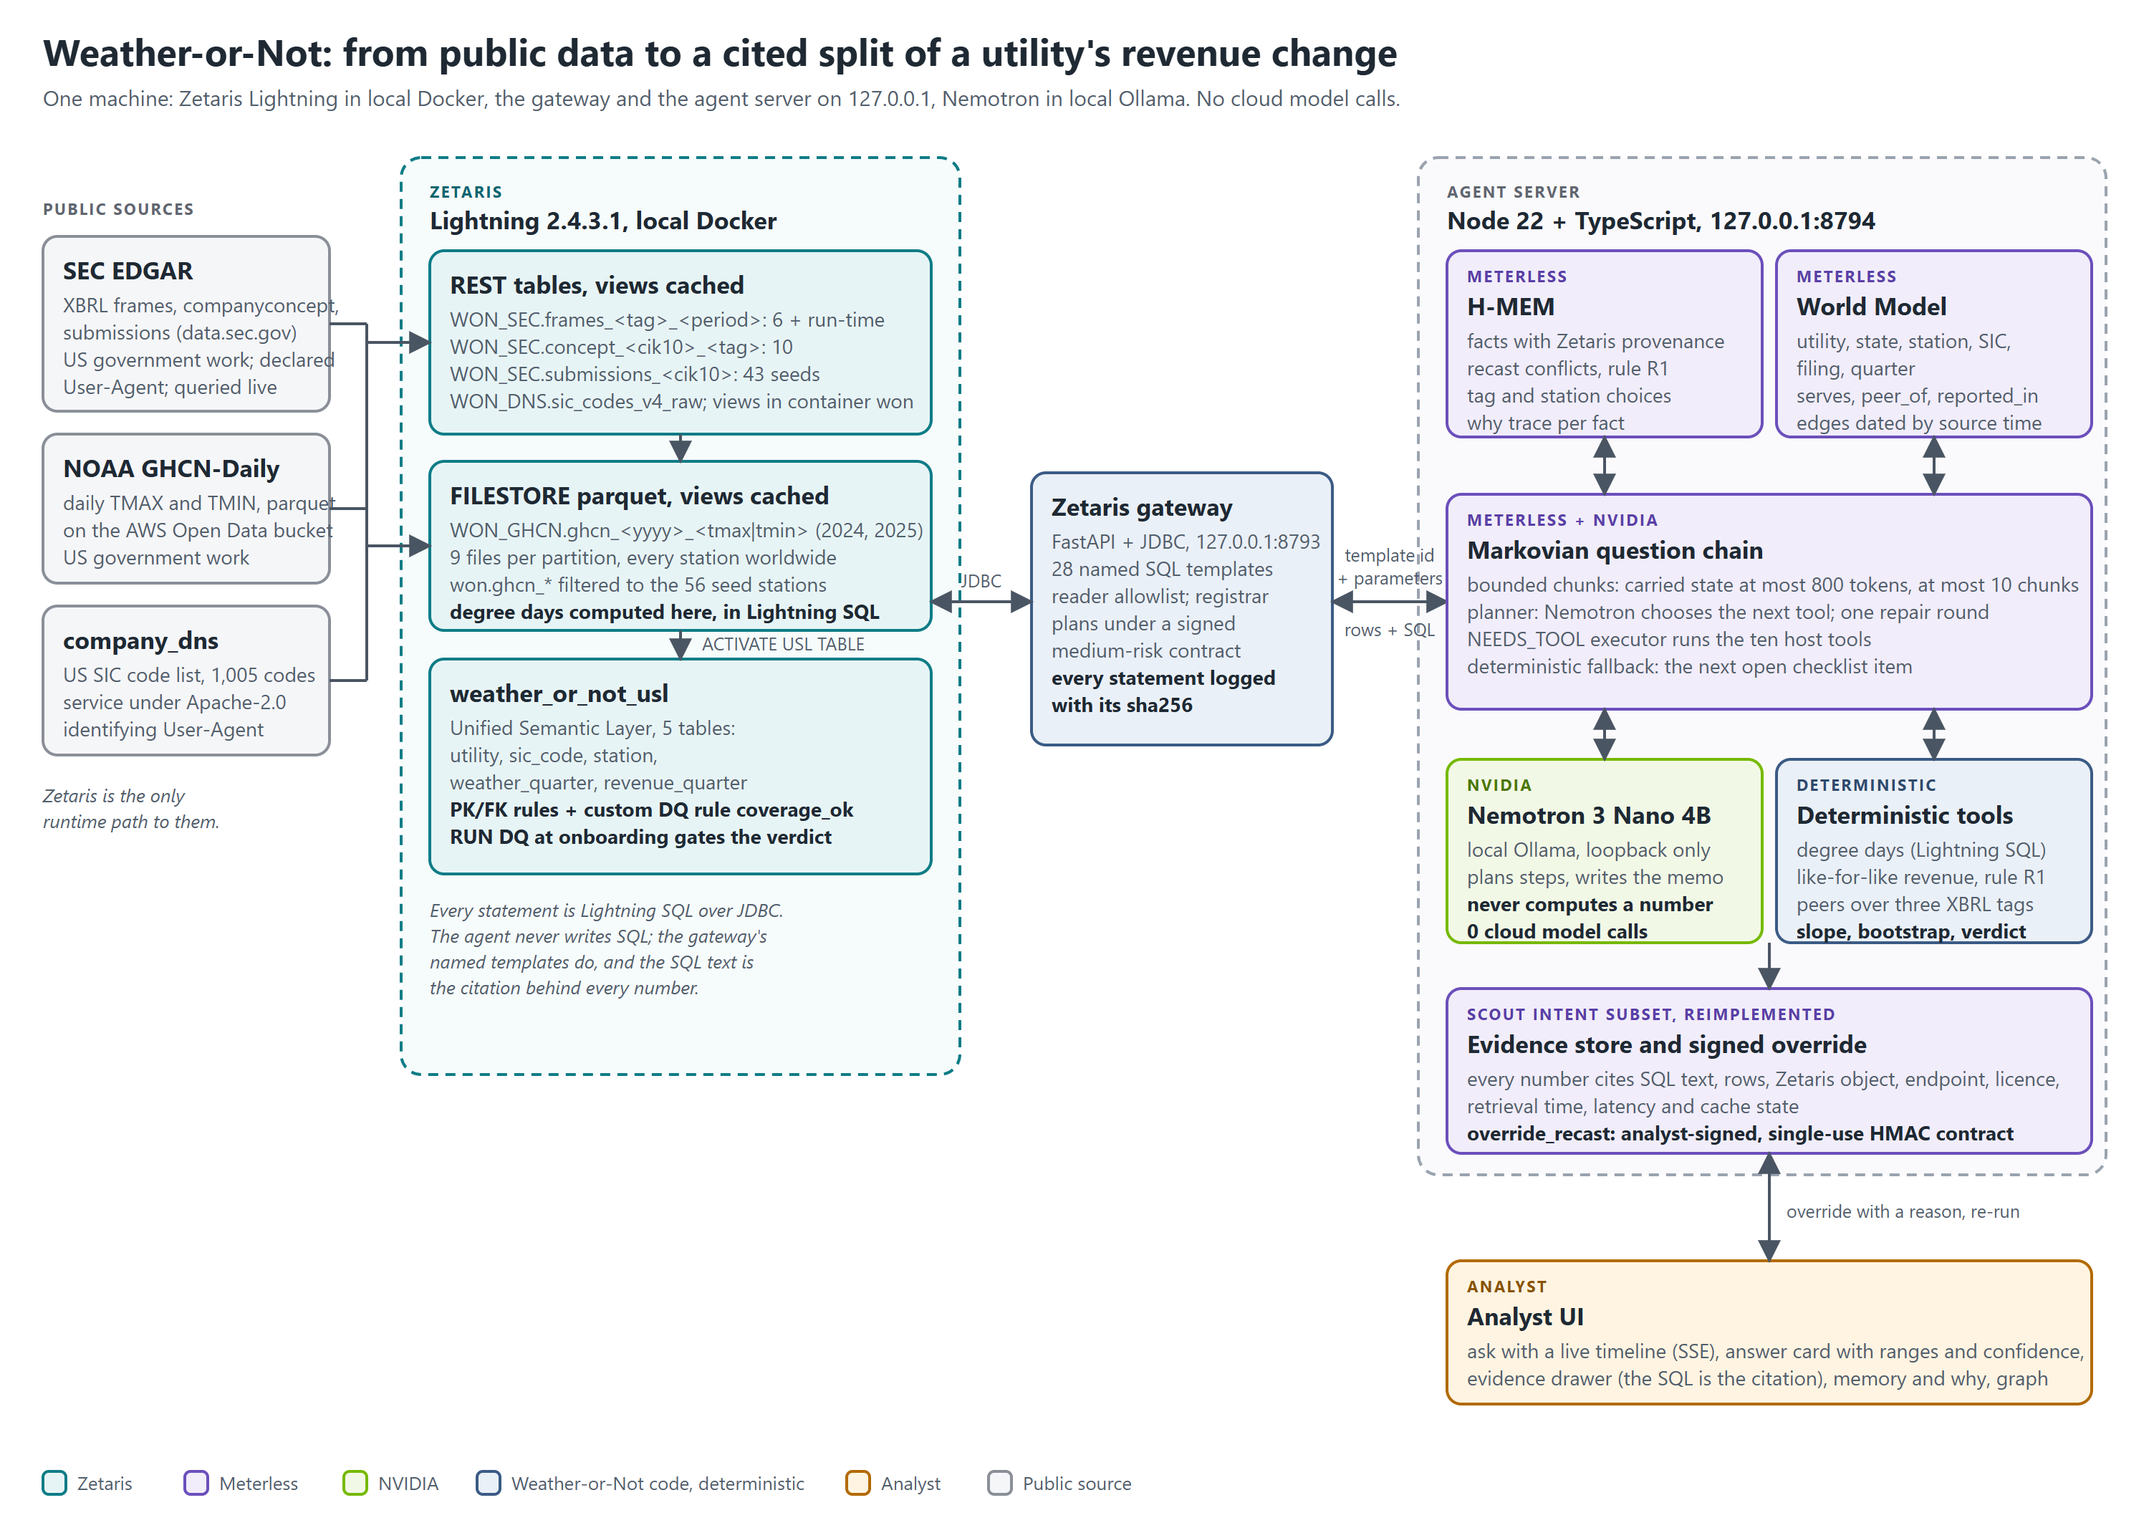
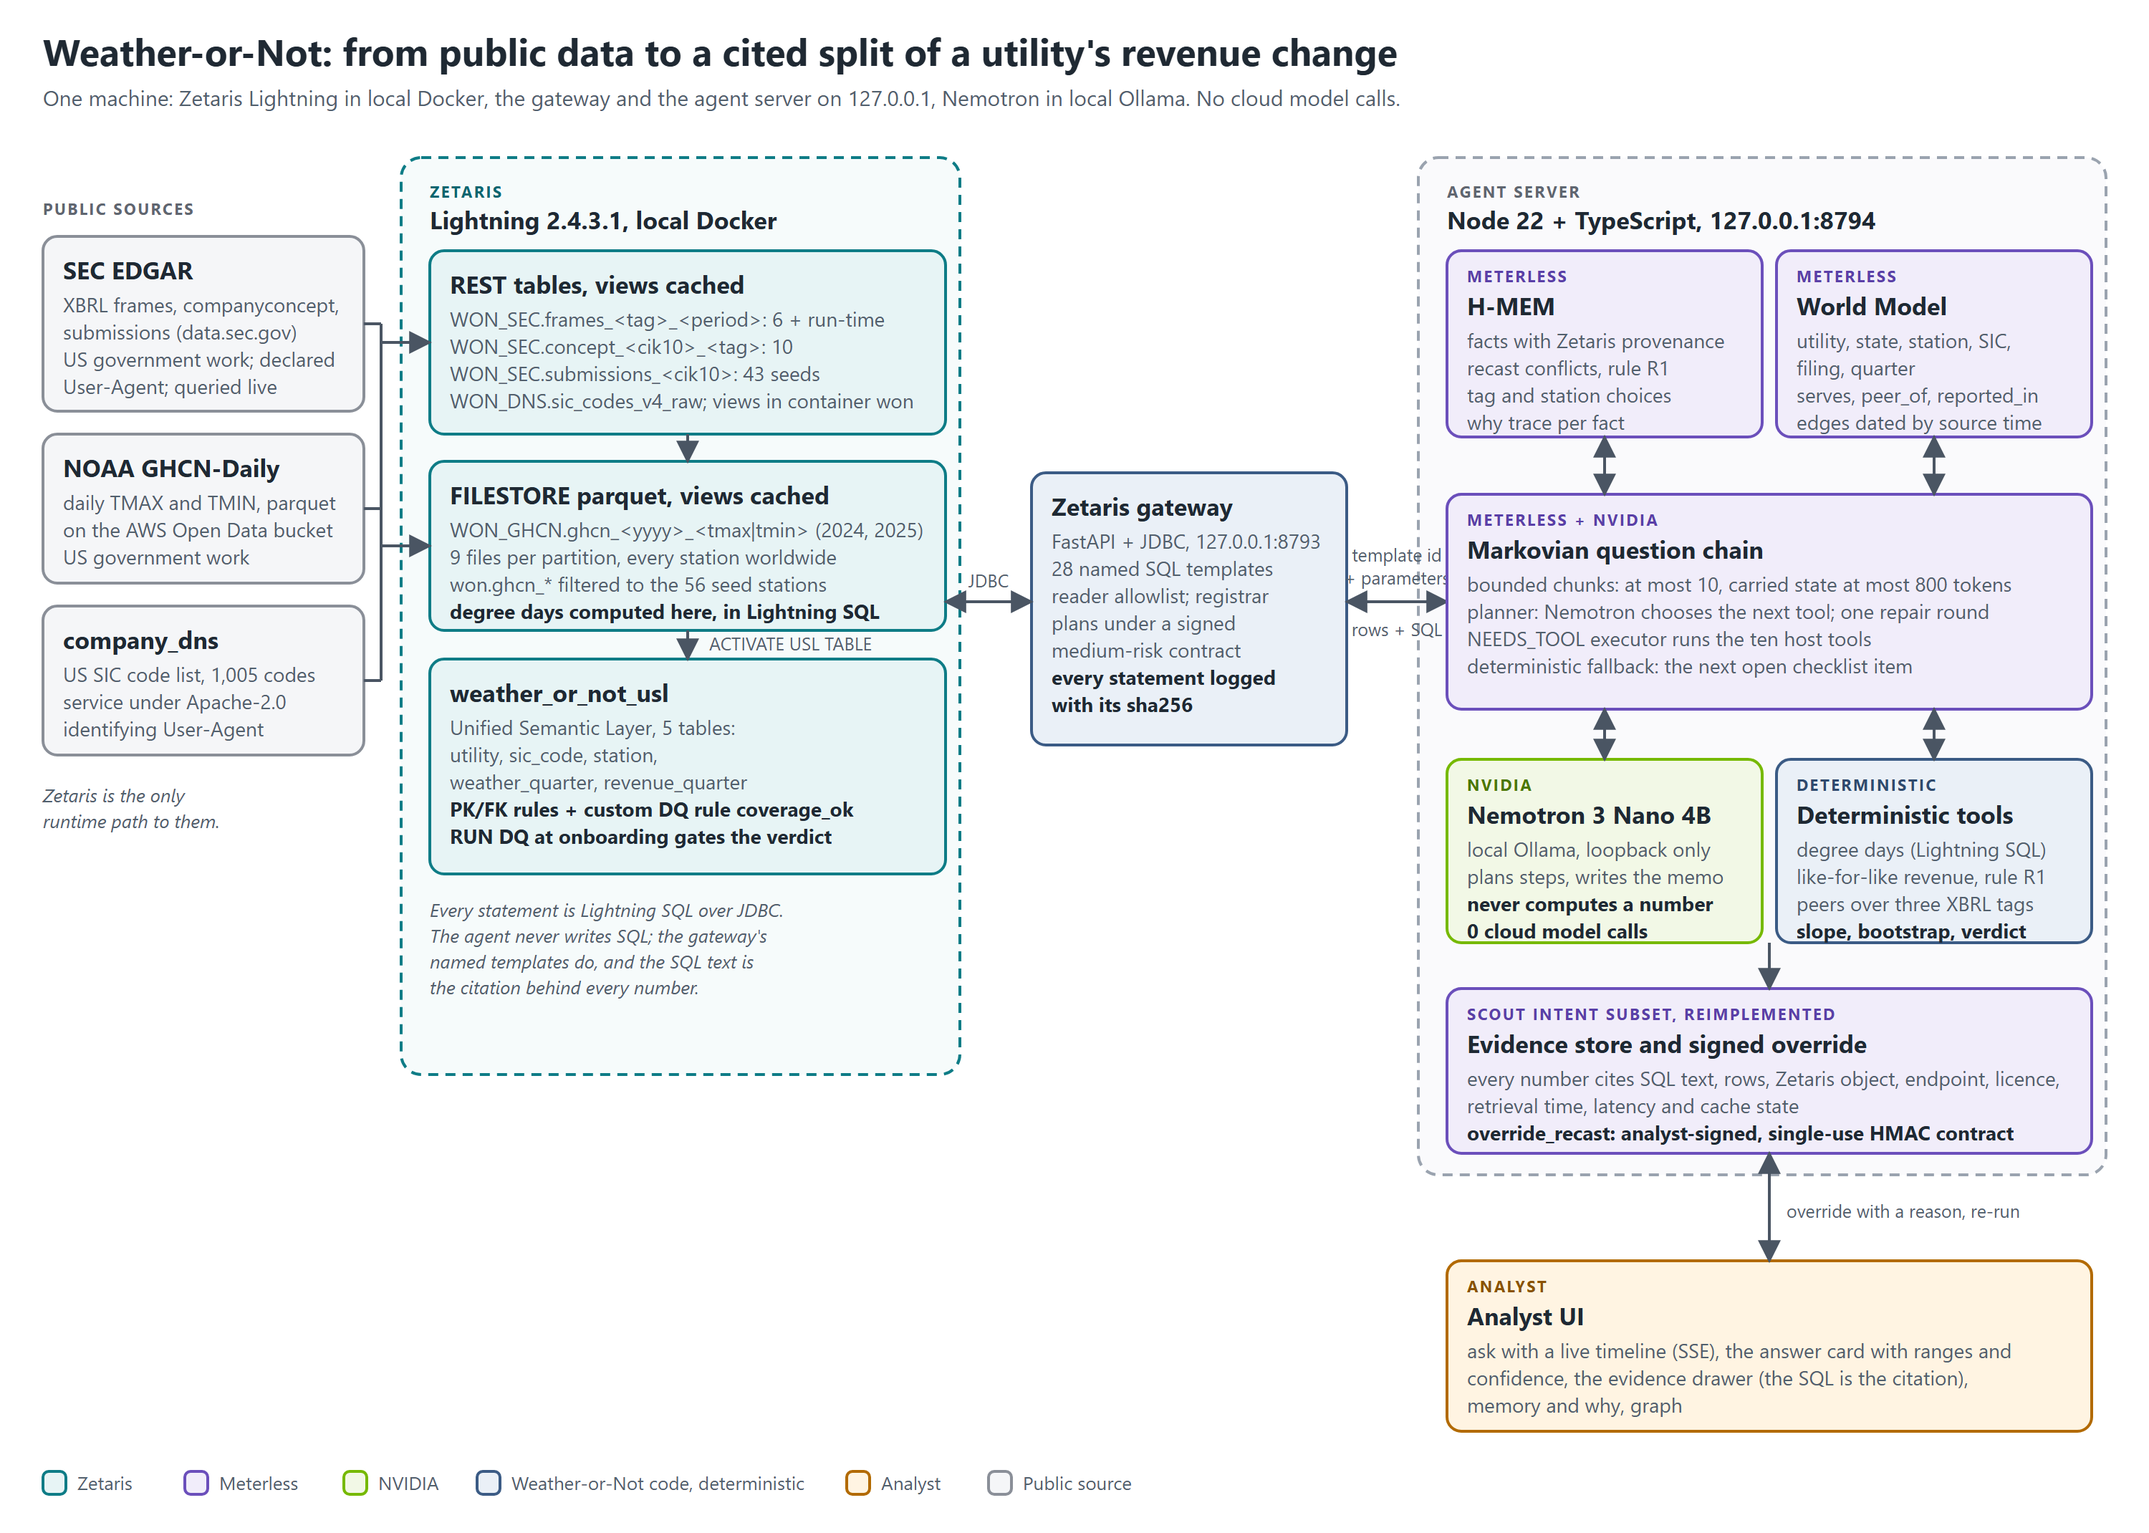
Docs: architecture figure re-laid so no label touches a box edge (wider source, Zetaris and gateway boxes, shorter chain line, three-line analyst box) and re-rendered; the README's Try-it timing quotes the clean-run range; the C1 fixture is described as the synthetic daily series it is

diff --git a/docs/architecture.py b/docs/architecture.py
@@ -94,22 +94,22 @@ rect(990, 110, 480, 710, "#9AA3AF", "#FAFAFC", dash=True, r=14)
 
 # Public sources
 text(30, 150, "PUBLIC SOURCES", size=11, weight="bold", fill=SOURCE[2], spacing=1.2)
-box(30, 165, 200, 122, SOURCE, "SEC EDGAR", ["XBRL frames, companyconcept,", "submissions (data.sec.gov)", "US government work; declared", "User-Agent; queried live"])
-box(30, 303, 200, 104, SOURCE, "NOAA GHCN-Daily", ["daily TMAX and TMIN, parquet", "on the AWS Open Data bucket", "US government work"])
-box(30, 423, 200, 104, SOURCE, "company_dns", ["US SIC code list, 1,005 codes", "service under Apache-2.0", "identifying User-Agent"])
+box(30, 165, 224, 122, SOURCE, "SEC EDGAR", ["XBRL frames, companyconcept,", "submissions (data.sec.gov)", "US government work; declared", "User-Agent; queried live"])
+box(30, 303, 224, 104, SOURCE, "NOAA GHCN-Daily", ["daily TMAX and TMIN, parquet", "on the AWS Open Data bucket", "US government work"])
+box(30, 423, 224, 104, SOURCE, "company_dns", ["US SIC code list, 1,005 codes", "service under Apache-2.0", "identifying User-Agent"])
 text(30, 560, "Zetaris is the only", size=13, fill=MUTED, style="italic")
 text(30, 578, "runtime path to them.", size=13, fill=MUTED, style="italic")
 
 # Zetaris
 text(300, 138, "ZETARIS", size=11, weight="bold", fill=ZETARIS[2], spacing=1.2)
 text(300, 160, "Lightning 2.4.3.1, local Docker", size=17, weight="bold")
-box(300, 175, 350, 128, ZETARIS, "REST tables, views cached",
+box(300, 175, 360, 128, ZETARIS, "REST tables, views cached",
     ["WON_SEC.frames_<tag>_<period>: 6 + run-time", "WON_SEC.concept_<cik10>_<tag>: 10", "WON_SEC.submissions_<cik10>: 43 seeds",
      "WON_DNS.sic_codes_v4_raw; views in container won"])
-box(300, 322, 350, 118, ZETARIS, "FILESTORE parquet, views cached",
+box(300, 322, 360, 118, ZETARIS, "FILESTORE parquet, views cached",
     ["WON_GHCN.ghcn_<yyyy>_<tmax|tmin> (2024, 2025)", "9 files per partition, every station worldwide",
      "won.ghcn_* filtered to the 56 seed stations", "!degree days computed here, in Lightning SQL"])
-box(300, 460, 350, 150, ZETARIS, "weather_or_not_usl",
+box(300, 460, 360, 150, ZETARIS, "weather_or_not_usl",
     ["Unified Semantic Layer, 5 tables:", "utility, sic_code, station,", "weather_quarter, revenue_quarter",
      "!PK/FK rules + custom DQ rule coverage_ok", "!RUN DQ at onboarding gates the verdict"])
 text(300, 640, "Every statement is Lightning SQL over JDBC.", size=13, fill=MUTED, style="italic")
@@ -117,21 +117,21 @@ text(300, 658, "The agent never writes SQL; the gateway's", size=13, fill=MUTED,
 text(300, 676, "named templates do, and the SQL text is", size=13, fill=MUTED, style="italic")
 text(300, 694, "the citation behind every number.", size=13, fill=MUTED, style="italic")
 for y in (226, 355, 475):
-    out.append(f'<line x1="230" y1="{y}" x2="256" y2="{y}" stroke="#4A5563" stroke-width="2"/>')
-out.append('<line x1="256" y1="226" x2="256" y2="475" stroke="#4A5563" stroke-width="2"/>')
-arrow([(256, 239), (300, 239)])
-arrow([(256, 381), (300, 381)])
-arrow([(475, 303), (475, 322)])
-arrow([(475, 440), (475, 460)], "ACTIVATE USL TABLE", (490, 454))
+    out.append(f'<line x1="254" y1="{y}" x2="266" y2="{y}" stroke="#4A5563" stroke-width="2"/>')
+out.append('<line x1="266" y1="226" x2="266" y2="475" stroke="#4A5563" stroke-width="2"/>')
+arrow([(266, 239), (300, 239)])
+arrow([(266, 381), (300, 381)])
+arrow([(480, 303), (480, 322)])
+arrow([(480, 440), (480, 460)], "ACTIVATE USL TABLE", (495, 454))
 
 # Gateway
-box(720, 330, 210, 190, CORE, "Zetaris gateway",
+box(720, 330, 220, 190, CORE, "Zetaris gateway",
     ["FastAPI + JDBC, 127.0.0.1:8793", "28 named SQL templates", "reader allowlist; registrar", "plans under a signed", "medium-risk contract",
      "!every statement logged", "!with its sha256"])
-arrow([(650, 420), (720, 420)], "JDBC", (685, 410), both=True, anchor="middle")
-arrow([(930, 420), (1010, 420)], "template id", (970, 392), both=True, anchor="middle")
-text(970, 408, "+ parameters", size=12.5, fill=MUTED, anchor="middle")
-text(970, 444, "rows + SQL", size=12.5, fill=MUTED, anchor="middle")
+arrow([(660, 420), (720, 420)], "JDBC", (690, 410), both=True, anchor="middle")
+arrow([(940, 420), (1010, 420)], "template id", (975, 392), both=True, anchor="middle")
+text(975, 408, "+ parameters", size=12.5, fill=MUTED, anchor="middle")
+text(975, 444, "rows + SQL", size=12.5, fill=MUTED, anchor="middle")
 
 # Agent server
 text(1010, 138, "AGENT SERVER", size=11, weight="bold", fill="#5F6670", spacing=1.2)
@@ -141,7 +141,7 @@ box(1010, 175, 220, 130, METERLESS, "H-MEM", ["facts with Zetaris provenance", "
 box(1240, 175, 220, 130, METERLESS, "World Model", ["utility, state, station, SIC,", "filing, quarter", "serves, peer_of, reported_in", "edges dated by source time"],
     tag="METERLESS")
 box(1010, 345, 450, 150, METERLESS, "Markovian question chain",
-    ["bounded chunks: carried state at most 800 tokens, at most 10 chunks", "planner: Nemotron chooses the next tool; one repair round",
+    ["bounded chunks: at most 10, carried state at most 800 tokens", "planner: Nemotron chooses the next tool; one repair round",
      "NEEDS_TOOL executor runs the ten host tools", "deterministic fallback: the next open checklist item"],
     tag="METERLESS  +  NVIDIA")
 box(1010, 530, 220, 128, NVIDIA, "Nemotron 3 Nano 4B", ["local Ollama, loopback only", "plans steps, writes the memo", "!never computes a number", "!0 cloud model calls"],
@@ -159,8 +159,9 @@ arrow([(1350, 495), (1350, 530)], both=True)
 arrow([(1235, 658), (1235, 690)])
 
 # Analyst
-box(1010, 880, 450, 100, ANALYST, "Analyst UI",
-    ["ask with a live timeline (SSE), answer card with ranges and confidence,", "evidence drawer (the SQL is the citation), memory and why, graph"],
+box(1010, 880, 450, 119, ANALYST, "Analyst UI",
+    ["ask with a live timeline (SSE), the answer card with ranges and", "confidence, the evidence drawer (the SQL is the citation),",
+     "memory and why, graph"],
     tag="ANALYST")
 arrow([(1235, 880), (1235, 805)], both=True)
 text(1247, 850, "override with a reason, re-run", size=12.5, fill=MUTED)

diff --git a/docs/how-cursor-was-used.md b/docs/how-cursor-was-used.md
@@ -32,7 +32,7 @@ CLI version 2026.10.22, model `Auto`, Cursor Pro plan. All runs took place on 24
 
 | Task | What Cursor Agent produced | Commit | State at the end of the run | Corrected afterwards |
 |---|---|---|---|---|
-| **C1** degree days ([task file and run record](cursor-tasks/C1-degree-days.md)) | `agent/src/tools/degreeDays.ts`: the Lightning SQL statement for heating and cooling degree days per station and quarter (tenths of a degree C to F, both quality-flag filters, inner join of the TMAX and TMIN views, coverage over the calendar day count), input validation, a pure reference implementation over daily rows, and the utility aggregation (mean total degree days over its stations, year-on-year change, minimum coverage). `agent/test/degree-days.test.ts`: 13 tests against a synthetic 90-day series with known answers. | `1a8743c` "C1: degree days SQL template and reference implementation (Cursor Agent)" | 122.4 s, exit 0. 13 tests green, type check clean. Cursor Agent committed by itself as `00a89bf` with an automatic co-author trailer; the message was amended to the repository's plain form (tree unchanged), which is why the hash is `1a8743c`. From C2 on the prompt says "Do not commit". | `2b2533b`: the F conversion evaluates in the same left-to-right order as the SQL expression (the two paths differed in the last binary digits only); a `null` result column throws instead of reading as 0, with a test. 14 tests after the review. |
+| **C1** degree days ([task file and run record](cursor-tasks/C1-degree-days.md)) | `agent/src/tools/degreeDays.ts`: the Lightning SQL statement for heating and cooling degree days per station and quarter (tenths of a degree C to F, both quality-flag filters, inner join of the TMAX and TMIN views, coverage over the calendar day count), input validation, a pure reference implementation over daily rows, and the utility aggregation (mean total degree days over its stations, year-on-year change, minimum coverage). `agent/test/degree-days.test.ts`: 13 tests against synthetic daily series (two made-up stations; 2024 Q1, 2025 Q1 and 2025 Q3) with known answers. | `1a8743c` "C1: degree days SQL template and reference implementation (Cursor Agent)" | 122.4 s, exit 0. 13 tests green, type check clean. Cursor Agent committed by itself as `00a89bf` with an automatic co-author trailer; the message was amended to the repository's plain form (tree unchanged), which is why the hash is `1a8743c`. From C2 on the prompt says "Do not commit". | `2b2533b`: the F conversion evaluates in the same left-to-right order as the SQL expression (the two paths differed in the last binary digits only); a `null` result column throws instead of reading as 0, with a test. 14 tests after the review. |
 | **C2** attribution ([task file and run record](cursor-tasks/C2-attribution.md)) | `agent/src/tools/attribution.ts`: peer-set construction with recorded exclusions, OLS slope with a Theil-Sen cross-check, the weather / industry / company-specific split, 300-resample bootstrap ranges from a seeded PRNG (mulberry32, seed 7), confidence labels and the claim verdict. `agent/test/attribution.test.ts`: 13 tests, including a three-peer case computed by hand and a thirty-peer synthetic case. | `4d83e2e` "C2: attribution with seeded bootstrap, confidence labels and claim verdict (Cursor Agent)" | 198.1 s, exit 0. 13 tests green, type check clean. No commit by Cursor Agent, as asked. | `1ced57c`: the claim thresholds are compared exactly. Cursor Agent had added a 1e-15 allowance to pass a fixture boundary case (`0.02 / 0.10`, which is 0.19999999999999998 in floating point); that was a defect in the reviewer's fixture, so the fixture's boundary cases were changed to ratios that are exact in binary floating point and regenerated; only `attribution.json` changed. |
 | **C3** like-for-like revenue and frames helpers ([task file and run record](cursor-tasks/C3-recast-and-frames.md)) | `agent/src/tools/frames.ts`: revenue-tag probing order, frame period ids and table names, CIK padding, `loc` to state, frames row parsing, growth. `agent/src/tools/recast.ts`: companyconcept period matching, original / comparative / current fact selection, recast detection with rule R1 (keep both values and both accession numbers) and like-for-like growth. Two suites, 22 tests, against a fixture with a recast comparative. | `222843d` "C3: like-for-like revenue with recast rule R1 and frames helpers (Cursor Agent)" | 163.3 s, exit 0. 22 tests green, type check clean. No commit by Cursor Agent, as asked. | Nothing. |
 

diff --git a/README.md b/README.md
@@ -121,7 +121,7 @@ npm run dev                                           # terminal 2: open http://
 
 ### Try it
 
-1. **Ask:** FirstEnergy, CY2025Q1, claim "colder weather". The timeline shows each Markovian chunk, the planner's plan (rendered as the model's plan, never as a fact) and each tool with its latency; "Computing degree days in Lightning SQL" stays on screen for the two `weather_quarter` statements (about 18 to 24 s each). The card lands after 100 to 130 s: the verdict sentence, the three parts with ranges, the growth with both accession numbers, the weather with stations and coverage, the peers table with exclusions, the DQ panel with the rule's run time, the Not-tested list and the memo ("Copy as markdown" gives the memo with every citation).
+1. **Ask:** FirstEnergy, CY2025Q1, claim "colder weather". The timeline shows each Markovian chunk, the planner's plan (rendered as the model's plan, never as a fact) and each tool with its latency; "Computing degree days in Lightning SQL" stays on screen for the two `weather_quarter` statements (about 18 to 24 s each). The card lands after about 100 to 130 s (97.5 to 128.1 s on the four clean runs): the verdict sentence, the three parts with ranges, the growth with both accession numbers, the weather with stations and coverage, the peers table with exclusions, the DQ panel with the rule's run time, the Not-tested list and the memo ("Copy as markdown" gives the memo with every citation).
 2. Click any figure to open the **evidence drawer**: the Lightning SQL and its sha256, the template and parameters, the Zetaris object, the endpoint, the licence, the retrieval time, the latency, the cache state and the rows. A derived number (the attribution) links to the records it was computed from.
 3. **Memory and why:** the run's memory ids, the `why` trace of a fact (provenance, ledger, history of retrievals) and the recast conflicts.
 4. **Ask** American Electric Power, CY2025Q1, "colder weather". The card shows the recast conflict (5,463.4 million in the quarter's own filing against 5,463.0 million in the next year's filing; rule R1 keeps the own filing). On Memory and why, override it with a reason: the UI signs a high-risk contract, posts the override, the panel repaints to "overridden", and "Re-run with the override" asks the question again with the chosen value; the new card and its evidence name the contract.

diff --git a/docs/cursor-tasks/README.md b/docs/cursor-tasks/README.md
@@ -51,7 +51,7 @@ From the repository root, in PowerShell:
 
 | Task | File | Scope | Status |
 |---|---|---|---|
-| C1 | [`C1-degree-days.md`](C1-degree-days.md) | degree-day SQL template text, TypeScript reference implementation, utility aggregation, tests against a synthetic 90-day series | done 2026-10-24 (122.4 s, exit 0, 13 tests green), commit `1a8743c`; two reviewer fixes in `2b2533b` (see the run record) |
+| C1 | [`C1-degree-days.md`](C1-degree-days.md) | degree-day SQL template text, TypeScript reference implementation, utility aggregation, tests against synthetic daily series for two made-up stations | done 2026-10-24 (122.4 s, exit 0, 13 tests green), commit `1a8743c`; two reviewer fixes in `2b2533b` (see the run record) |
 | C2 | [`C2-attribution.md`](C2-attribution.md) | peer set, OLS and Theil-Sen slope, seeded bootstrap ranges, three-way split, confidence labels, claim verdict, tests against hand-computed cases | done 2026-10-24 (198.1 s, exit 0, 13 tests green), commit `4d83e2e`; one reviewer fix to the claim thresholds and the fixture in `1ced57c` (see the run record) |
 | C3 | [`C3-recast-and-frames.md`](C3-recast-and-frames.md) | companyconcept history parsing, period matching, recast detection and rule R1, tag probing, frames helpers, tests with a recast fixture | done 2026-10-24 (163.3 s, exit 0, 22 tests green), commit `222843d`; no reviewer change needed (see the run record) |
 
